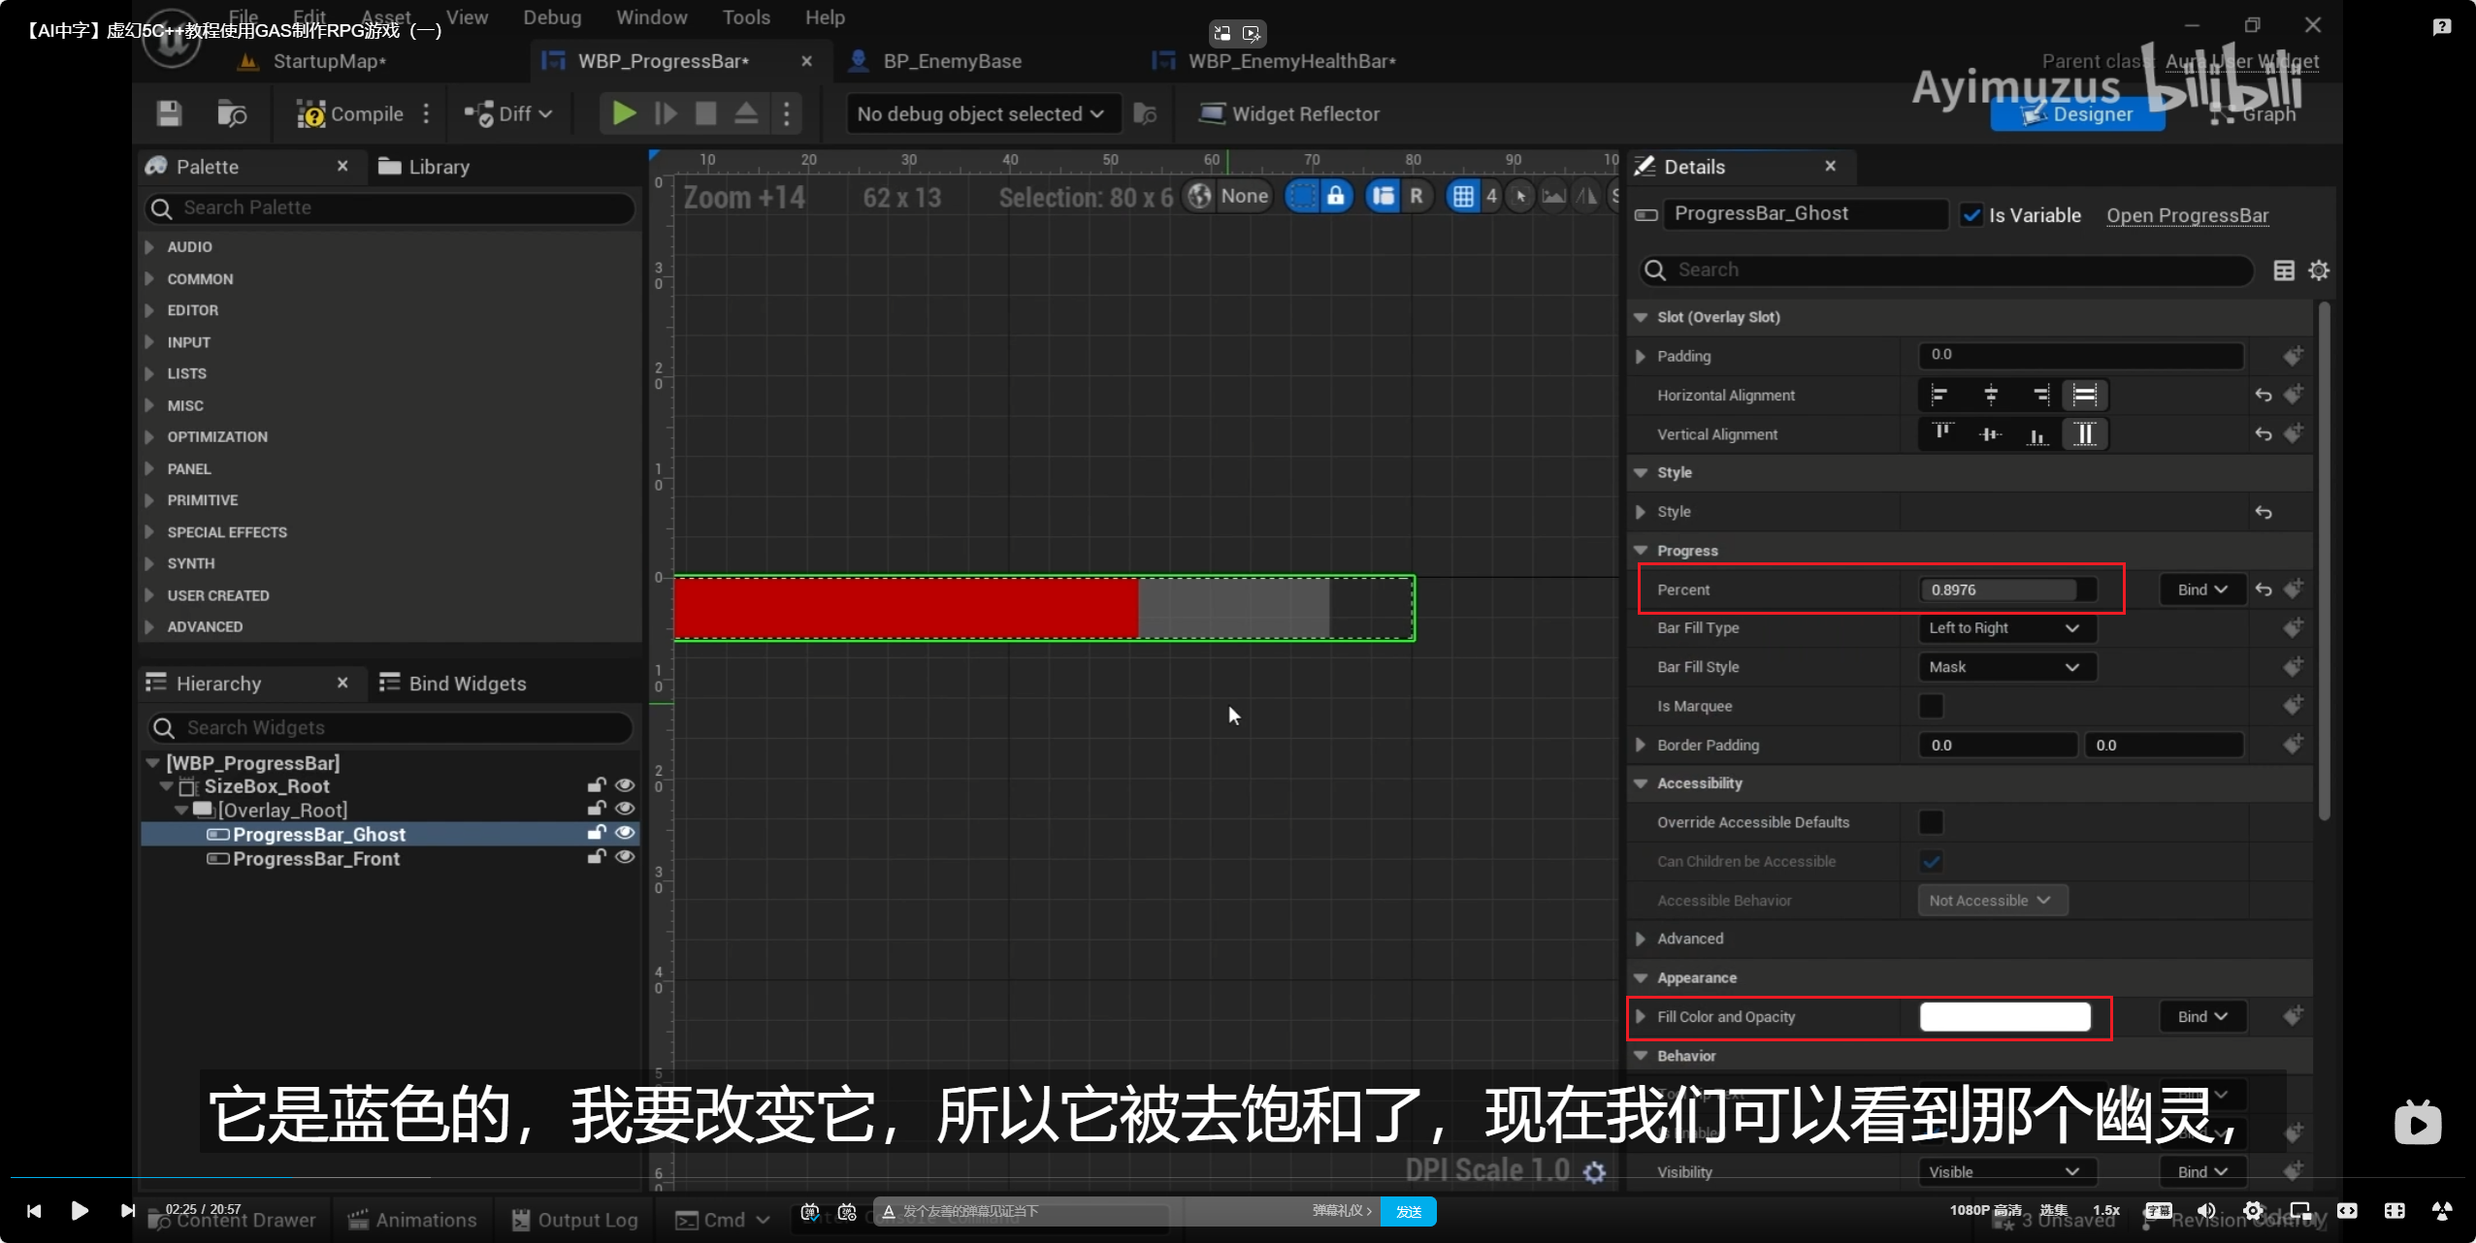
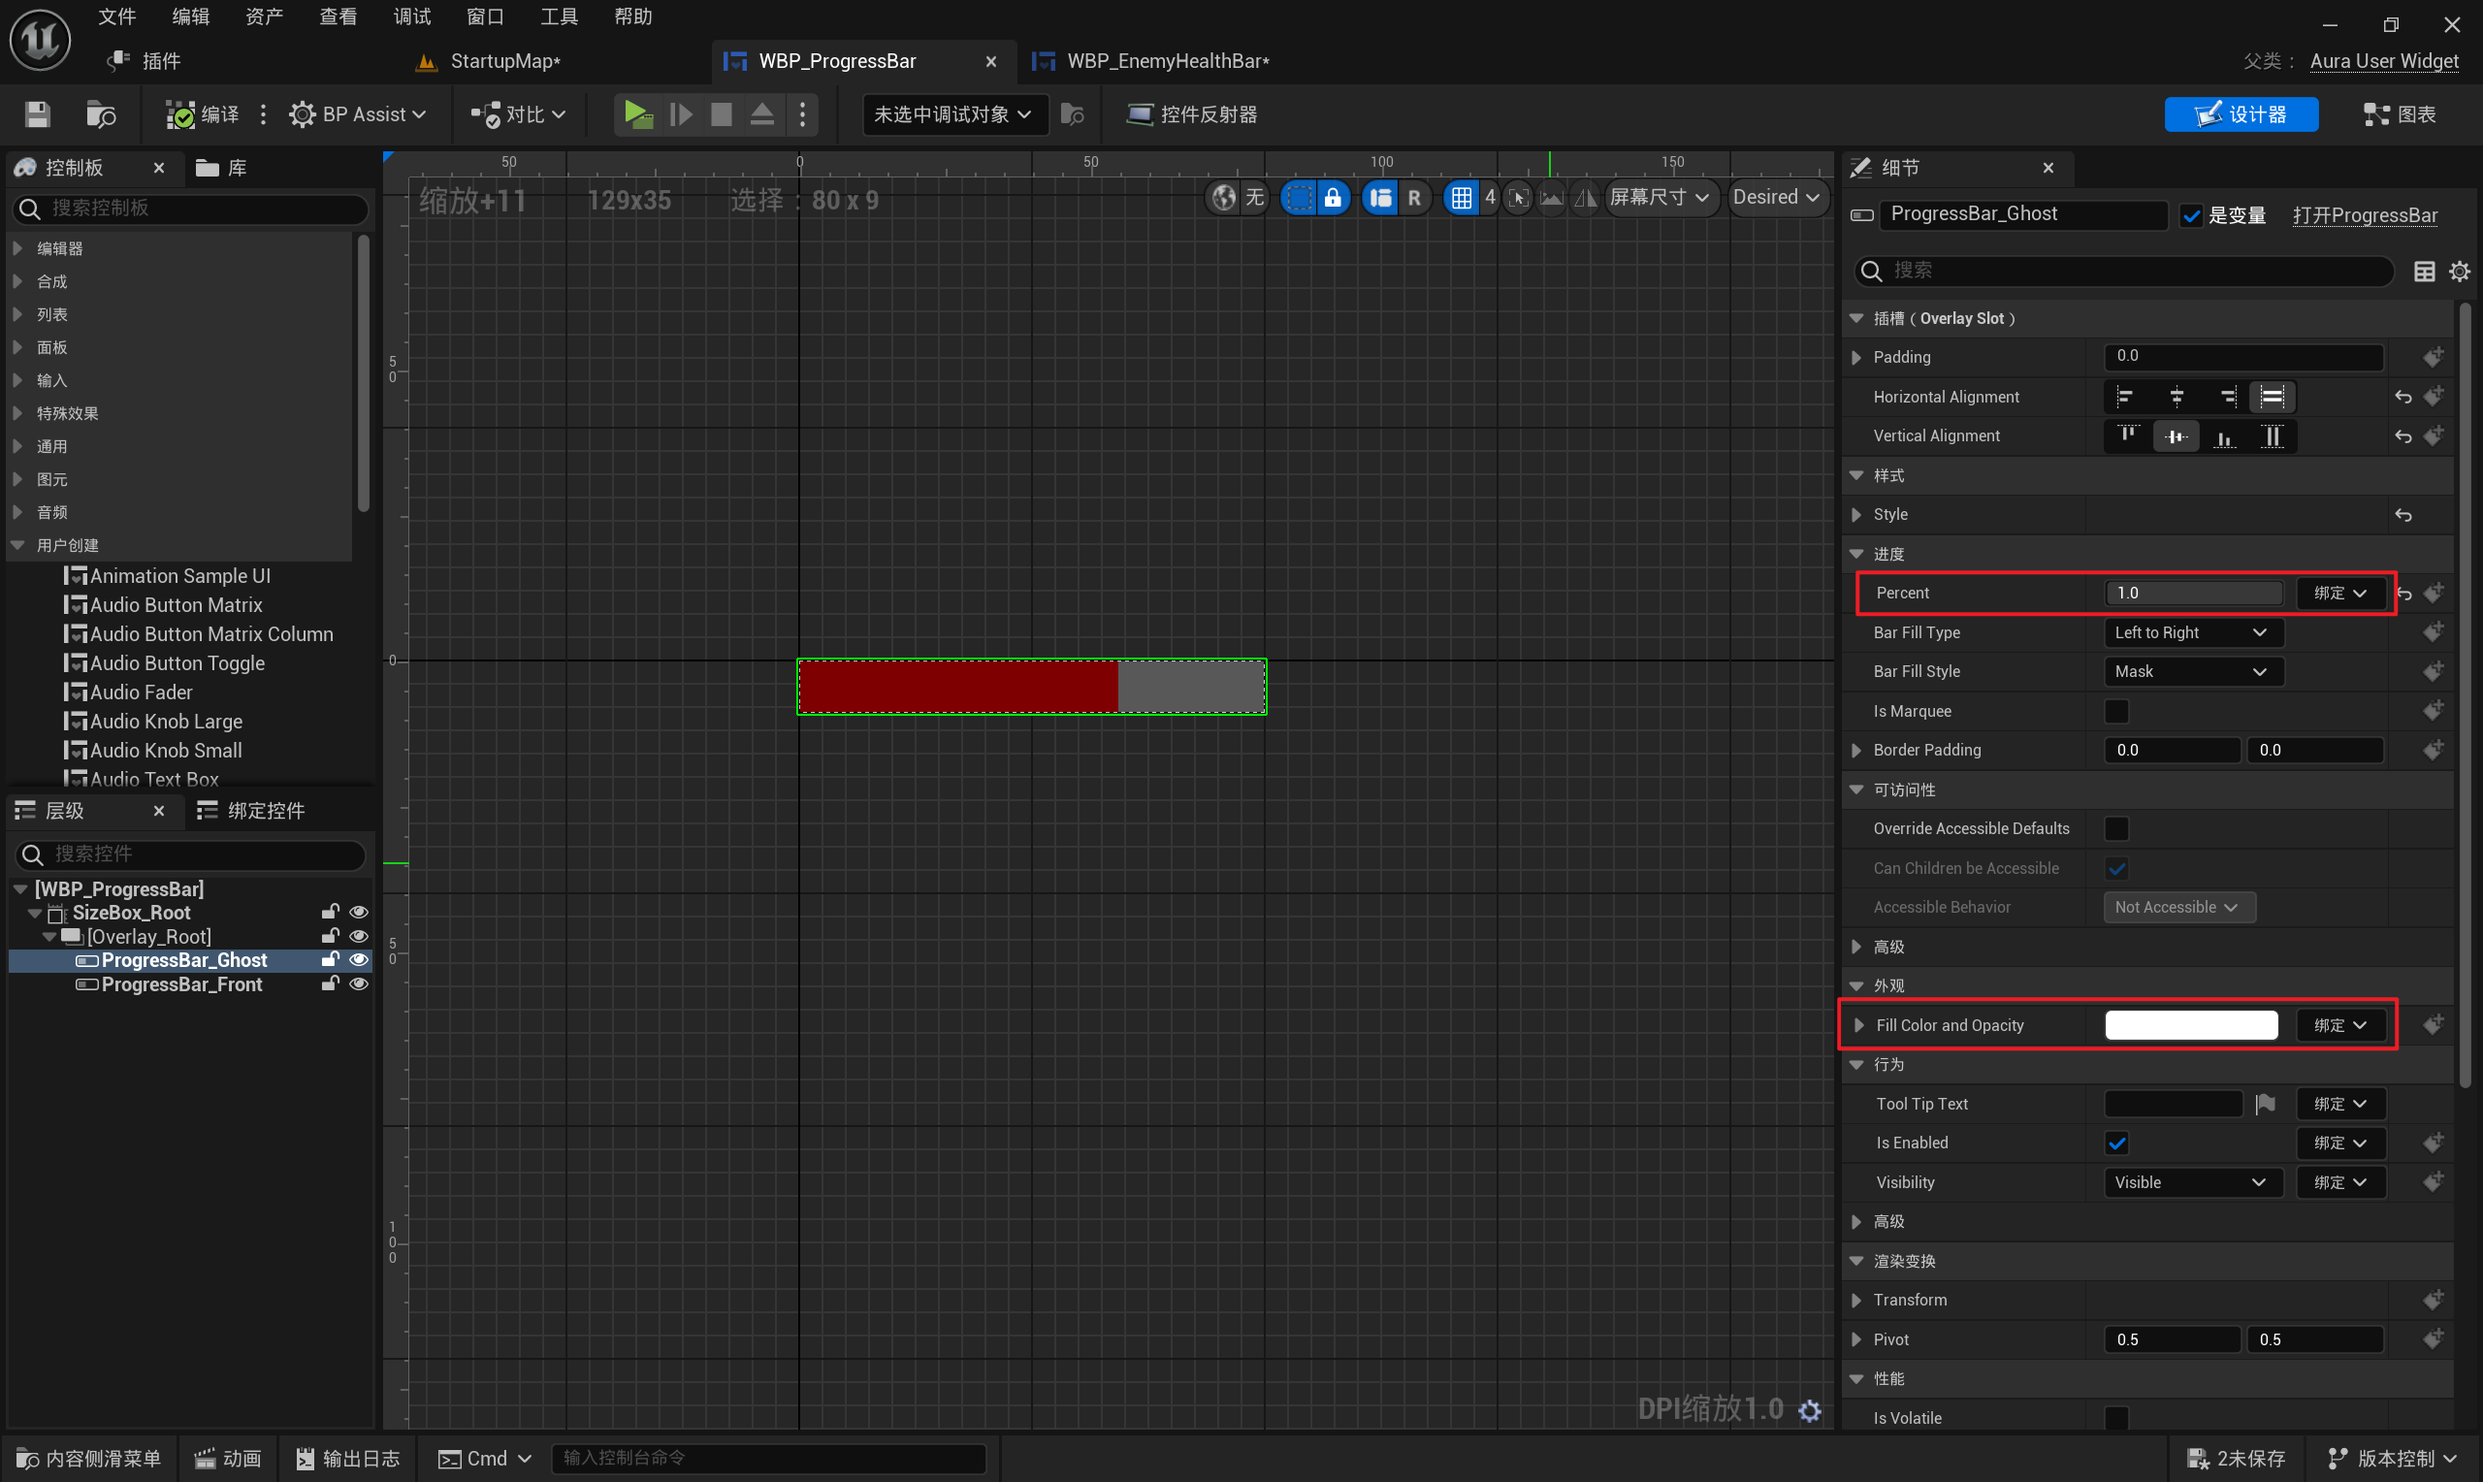
48

Changed region(s): [[0.0, 0.0, 1.0, 1.0], [0.681, 0.312, 0.712, 0.3744], [0.681, 0.7176, 0.712, 0.7488]]

diff --git a/UECPP/Models/GAS/GAS_2_Aura/DetailContent/TEMP/GAS_048.md b/UECPP/Models/GAS/GAS_2_Aura/DetailContent/TEMP/GAS_048.md
@@ -8,26 +8,39 @@ ________________________________________________________________________________
 
 ## 处理关键点
 
-1. 111111111111111111111111111111
+1. 计时器的逻辑
 
-2. 222222222222222222222222222
+2. 内部持有状态变量的思路
 
-3. 33333333333333333333333333
+3. Tick优化(不用的技能记得关闭Tick)
 
-4. 4444444444444444444444444444
-
-5. 555555555555555555555555555555
-
-6. 666666666666666666666666666
-
-7. 77777777777777777777777777777777
 
 ___________________________________________________________________________________________
 
 # 目录
 
+- [GAS 048 敌人Delay掉血的条](#gas-048-敌人delay掉血的条)
+  - [处理关键点](#处理关键点)
+- [目录](#目录)
+    - [这一节没有代码纯蓝图操作](#这一节没有代码纯蓝图操作)
+    - [修改火球伤害](#修改火球伤害)
+    - [UI *WBP\_ProgressBar* 中创建ProgressBar并配置参数和整合成函数](#ui-wbp_progressbar-中创建progressbar并配置参数和整合成函数)
+    - [UI *WBP\_ProgressBar* 中创建Delay掉血的效果](#ui-wbp_progressbar-中创建delay掉血的效果)
+      - [此时效果gif](#此时效果gif)
+    - [做一个小效果:敌人如果2秒内没有受到伤害,就隐藏其血条,直到其血量发生变化时,再次显示](#做一个小效果敌人如果2秒内没有受到伤害就隐藏其血条直到其血量发生变化时再次显示)
+    - [下面将进行一些优化](#下面将进行一些优化)
+    - [优化后效果gif](#优化后效果gif)
 
-[TOC]
+
+___________________________________________________________________________________________
+
+### 这一节没有代码纯蓝图操作
+
+### 修改火球伤害
+
+> 我火球伤害有点低效果不是很明显，修改一下伤害
+>
+> ![](https://github.com/liyunlong618/LiYunLongKnowledgeLibrary/blob/main/UECPP/Models/GAS/GAS_2_Aura/DetailContent/Image/GAS_048/19.png?raw=true)
 
 ___________________________________________________________________________________________
 
@@ -36,28 +49,72 @@ ________________________________________________________________________________
 > 1. 创建 `ProgressBar` 设为变量，并改名 `ProgressBar_Ghost` 
 > 2. 蓝图中，`SetStyle` 设置背景 `BackgroundImage` 的alpha为0，`FillImage`为变量，改名为 `GhostBarFillBrush` 放入之前创建的分组ProgressBarProperties中。
 > 3. 设置 `GhostBarFillBrush` 的默认值为深一点的颜色
-> 4. 调整`ProgressBar_Ghost` 的 `FillColorAndOpacity` 为白色，`Percent` 调一个便于查看的值![](../Image/GAS_048/1.png1)
+> 4. 调整`ProgressBar_Ghost` 的 `FillColorAndOpacity` 为白色，`Percent` 调1便于查看![](https://github.com/liyunlong618/LiYunLongKnowledgeLibrary/blob/main/UECPP/Models/GAS/GAS_2_Aura/DetailContent/Image/GAS_048/1.png?raw=true)
 > 5. 合并为函数，命名为 `UpdateGhostFillBrush` 在 `PreConstruct` 上调用
+
+___________________________________________________________________________________________
 
 ### UI *WBP_ProgressBar* 中创建Delay掉血的效果
 
+> 1. *WBP_ProgressBar* 中创建函数 `SetBarPercent` ![](https://github.com/liyunlong618/LiYunLongKnowledgeLibrary/blob/main/UECPP/Models/GAS/GAS_2_Aura/DetailContent/Image/GAS_048/2.png?raw=true)
+> 2. 替换这里的函数![](https://github.com/liyunlong618/LiYunLongKnowledgeLibrary/blob/main/UECPP/Models/GAS/GAS_2_Aura/DetailContent/Image/GAS_048/3.png?raw=true)
+> 3. 创建float变量 `GhostPercentTarget` 设置默认值为1 
+> 4. 在Tick中使用线性插值 `FinterpTo` 做效果![](https://github.com/liyunlong618/LiYunLongKnowledgeLibrary/blob/main/UECPP/Models/GAS/GAS_2_Aura/DetailContent/Image/GAS_048/4.png?raw=true)
+> 5. 合并为函数，取名 `InterpGhostBar` 
+> 6. 因为逻辑在父类的 `Tick` 函数中，所以 *WBP _EnemyHealthBar* 需要添加调用父函数
+> 7. 下一步需要设置 `GhostPercentTarget` 创建自定义事件取名 `UpdateGhostinterpTarget` 形参为float取名 `Target` 
+> 8. 在 *WBP_ProgressBar* 的 `SetBarPercent` 函数执行结尾调用 `UpdateGhostinterpTarget` 事件，传入计算后的百分比![](https://github.com/liyunlong618/LiYunLongKnowledgeLibrary/blob/main/UECPP/Models/GAS/GAS_2_Aura/DetailContent/Image/GAS_048/5.png?raw=true)
+> 9. 在 `UpdateGhostinterpTarget` 中Delay一段时间后，Set `GhostPercentTarget` 的值![](https://github.com/liyunlong618/LiYunLongKnowledgeLibrary/blob/main/UECPP/Models/GAS/GAS_2_Aura/DetailContent/Image/GAS_048/6.png?raw=true)
+>
+> **这时每次设置血条百分比就会将数值传入 `UpdateGhostinterpTarget` 事件设置 `GhostPercentTarget` ，然后在Tick中触发线性插值 `FinterpTo` 达成效果**
+
+#### 此时效果gif
+
+![](https://github.com/liyunlong618/LiYunLongKnowledgeLibrary/blob/main/UECPP/Models/GAS/GAS_2_Aura/DetailContent/Image/GAS_048/7.gif)
+
+___________________________________________________________________________________________
+
+### 做一个小效果:敌人如果2秒内没有受到伤害,就隐藏其血条,直到其血量发生变化时,再次显示
+
+> 思路：每次我们调用函数设置bar百分比时，我们可以设置显示血条UI并开始计时器，每次设置百分比时，我们可以重置该计时器
+>
+> 计时器触发函数命名为 `HideProgressBar` 
+>
+> ![](https://github.com/liyunlong618/LiYunLongKnowledgeLibrary/blob/main/UECPP/Models/GAS/GAS_2_Aura/DetailContent/Image/GAS_048/8.png?raw=true)
+>
+> 别忘了在一开始隐藏血条
+>
+> ![](https://github.com/liyunlong618/LiYunLongKnowledgeLibrary/blob/main/UECPP/Models/GAS/GAS_2_Aura/DetailContent/Image/GAS_048/9.png?raw=true)
+>
+> 确保子类调用父类逻辑
+>
+> <img src="https://github.com/liyunlong618/LiYunLongKnowledgeLibrary/blob/main/UECPP/Models/GAS/GAS_2_Aura/DetailContent/Image/GAS_048/20.png" style="zoom: 50%;" />
+
+此时gif
+
+![](https://github.com/liyunlong618/LiYunLongKnowledgeLibrary/blob/main/UECPP/Models/GAS/GAS_2_Aura/DetailContent/Image/GAS_048/10.gif)
 
 
 
+___________________________________________________________________________________________
 
+### 下面将进行一些优化
 
+1. 优化Visibility创建函数 `SetBarVisibility` 设置Visibility
 
+2. 内部持有bool可以查询血条开启状态，创建bool变量起名 `ProgressBarvisible` 
 
+3. 优化Tick逻辑，`ProgressBarvisible` 限制，`ProgressBarvisible == true`时才开启，使用避免不用时的开销
 
+![](https://github.com/liyunlong618/LiYunLongKnowledgeLibrary/blob/main/UECPP/Models/GAS/GAS_2_Aura/DetailContent/Image/GAS_048/11.png?raw=true)
 
+![](https://github.com/liyunlong618/LiYunLongKnowledgeLibrary/blob/main/UECPP/Models/GAS/GAS_2_Aura/DetailContent/Image/GAS_048/12.png?raw=true)
 
+### 优化后效果gif
 
+![](https://github.com/liyunlong618/LiYunLongKnowledgeLibrary/blob/main/UECPP/Models/GAS/GAS_2_Aura/DetailContent/Image/GAS_048/18.gif)
 
-
-
-
-
-
+> **我这里2秒没收到伤害就关闭血条UI显示，有点短，建议长一些比如6秒，8秒这样**
 
 ___________________________________________________________________________________________
 
